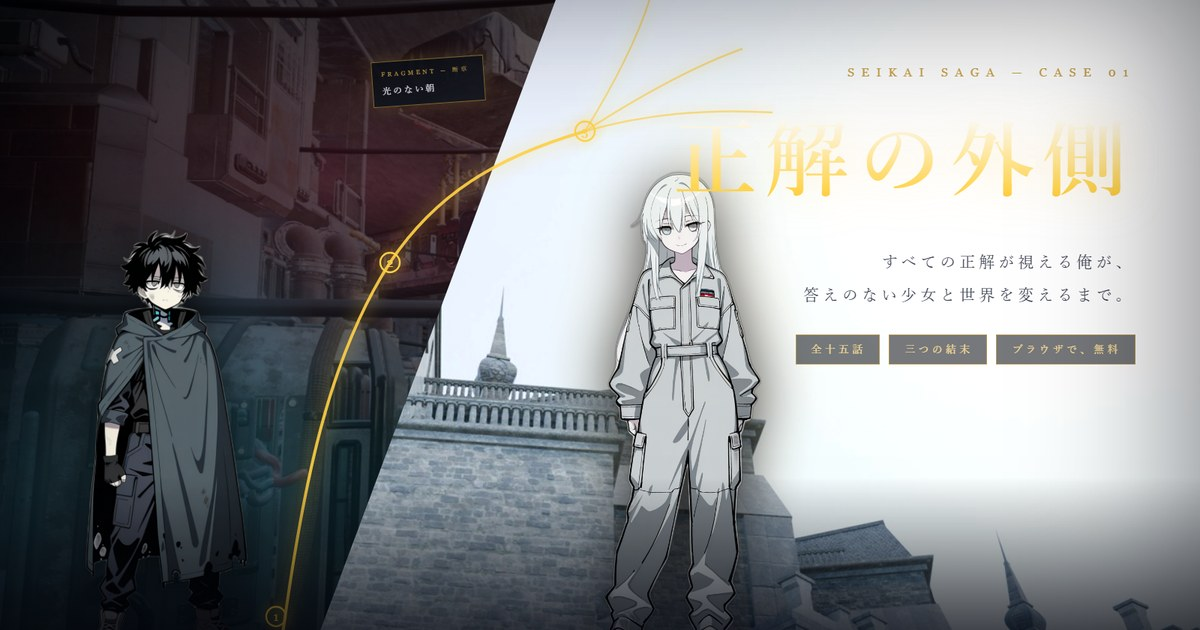
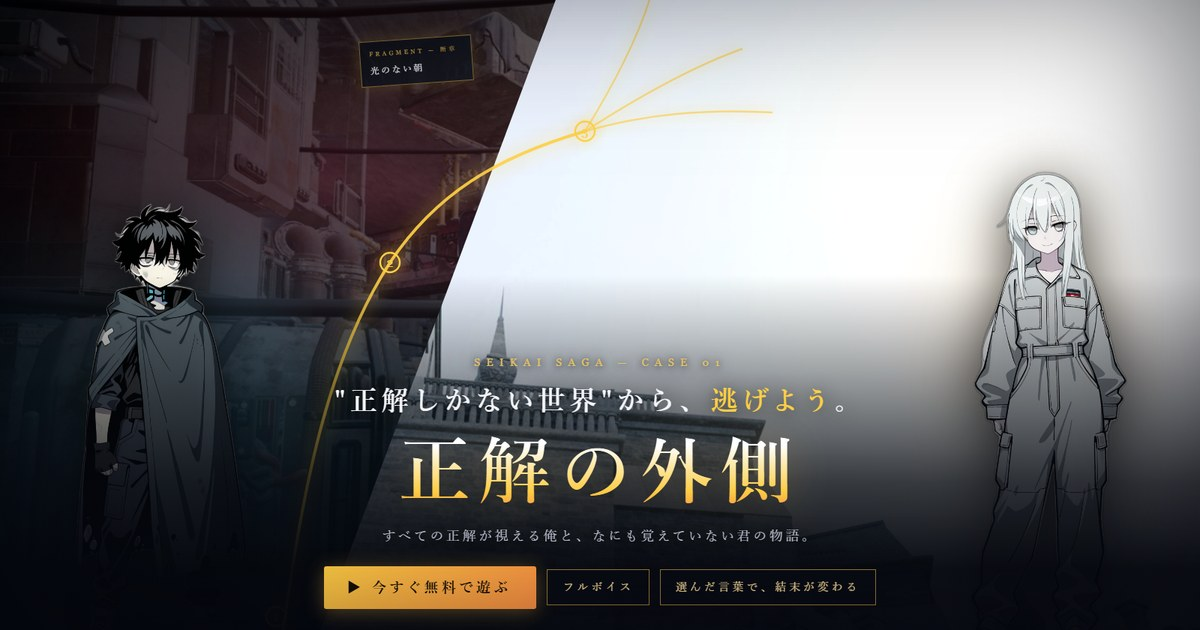
feat(seikai): click-worthy poster-style key visual — hook copy, full-voice badge, high contrast
- 映画ポスター型に刷新: 下部56%暗幕バンドで全テキスト高コントラスト化(コントラスト比問題の解消)
- 引き付けるコピー: フック「"正解しかない世界"から、逃げよう。」+「すべての正解が視える俺と、なにも覚えていない君の物語。」(仕様列挙の全15話/3結末は廃止)
- CTA: ゴールドの「▶ 今すぐ無料で遊ぶ」ボタン+「フルボイス」「選んだ言葉で、結末が変わる」チップ
- 左右対称構図(影のカイ/光のリーン)+3分岐の金道筋+断章カード

diff --git a/kv-render.html b/kv-render.html
@@ -25,26 +25,31 @@ html,body{width:1600px;height:900px;overflow:hidden;background:#000;
 svg{position:absolute;inset:0}
 /* キャラ */
 .ch{position:absolute;bottom:-2%;filter:drop-shadow(0 14px 40px rgba(0,0,0,.75))}
-#kai{left:13.5%;height:66%;transform:translateX(-50%)}
-#rin{left:56%;height:74%;transform:translateX(-50%)}
+#kai{left:13%;height:70%;transform:translateX(-50%)}
+#rin{left:86.5%;height:74%;transform:translateX(-50%)}
 .rimL{position:absolute;bottom:0;left:4%;width:22%;height:75%;background:radial-gradient(ellipse at 60% 55%,rgba(90,200,255,.16),transparent 60%)}
-.rimR{position:absolute;bottom:0;left:44%;width:26%;height:84%;background:radial-gradient(ellipse at 50% 50%,rgba(255,220,150,.22),transparent 62%)}
+.rimR{position:absolute;bottom:0;left:72%;width:28%;height:84%;background:radial-gradient(ellipse at 50% 50%,rgba(255,220,150,.24),transparent 62%)}
 /* 足元の影 */
-.floor{position:absolute;left:0;right:0;bottom:0;height:26%;background:linear-gradient(0deg,rgba(4,6,12,.72),transparent)}
+.floor{position:absolute;left:0;right:0;bottom:0;height:56%;background:linear-gradient(0deg,rgba(6,9,16,.96) 22%,rgba(6,9,16,.78) 45%,transparent)}
 /* タイポ */
-#type{position:absolute;right:5.4%;top:13%;text-align:right}
-#type .eye{font-family:Georgia,serif;font-size:16px;letter-spacing:.6em;color:#c9a24a;text-transform:uppercase}
-#type h1{margin-top:20px;font-size:112px;font-weight:600;letter-spacing:.1em;
+#type{position:absolute;left:50%;bottom:6.5%;transform:translateX(-50%);text-align:center;width:88%}
+#type .eye{font-family:Georgia,serif;font-size:14px;letter-spacing:.6em;color:#e8c56a;text-transform:uppercase;text-shadow:0 1px 10px rgba(0,0,0,.9),0 0 22px rgba(0,0,0,.7)}
+#type .hook{margin-top:16px;font-size:36px;letter-spacing:.16em;color:#f4f6fb;font-weight:600;
+  text-shadow:0 2px 24px rgba(0,0,0,.9)}
+#type .hook b{color:#ffd24a;font-weight:600}
+#type h1{margin-top:12px;font-size:96px;font-weight:600;letter-spacing:.12em;line-height:1.15;
   background:linear-gradient(180deg,#fff 16%,#ffd24a 72%,#ff9a4a 100%);
   -webkit-background-clip:text;background-clip:text;color:transparent;
-  filter:drop-shadow(0 4px 30px rgba(255,200,90,.28))}
-#type .sub{margin-top:22px;font-size:21px;letter-spacing:.24em;color:#3a4254;line-height:2.1;
-  text-shadow:0 1px 10px rgba(255,255,255,.65)}
-#type .chips{margin-top:30px;display:flex;gap:12px;justify-content:flex-end}
-#type .chip{border:1px solid rgba(201,162,74,.75);color:#ffe1a0;font-size:14px;letter-spacing:.3em;
-  padding:8px 18px 8px 20px;background:rgba(10,14,22,.55)}
+  filter:drop-shadow(0 4px 30px rgba(255,200,90,.32))}
+#type .sub{margin-top:12px;font-size:18px;letter-spacing:.2em;color:#c9cede;line-height:1.9;
+  text-shadow:0 2px 14px rgba(0,0,0,.9)}
+#type .chips{margin-top:22px;display:flex;gap:14px;justify-content:center;align-items:center}
+#type .cta{background:linear-gradient(135deg,#ffd24a,#ff9a4a);color:#1a1206;font-size:19px;font-weight:700;
+  letter-spacing:.22em;padding:13px 34px 13px 30px;border-radius:3px;box-shadow:0 4px 26px rgba(255,190,80,.4)}
+#type .chip{border:1px solid rgba(201,162,74,.8);color:#ffe1a0;font-size:15px;letter-spacing:.26em;
+  padding:11px 20px;background:rgba(10,14,22,.72)}
 /* 断章カードの気配(小) */
-#fragmini{position:absolute;left:31%;top:12%;width:150px;background:linear-gradient(160deg,rgba(10,14,22,.9),rgba(18,24,36,.85));
+#fragmini{position:absolute;left:30%;top:9%;width:150px;background:linear-gradient(160deg,rgba(10,14,22,.9),rgba(18,24,36,.85));
   border:1px solid rgba(201,162,74,.6);padding:10px 12px;box-shadow:0 0 22px rgba(201,162,74,.25);transform:rotate(-4deg)}
 #fragmini .fen{font-family:Georgia,serif;font-size:8px;letter-spacing:.44em;color:#c9a24a}
 #fragmini .fjp{font-size:12px;letter-spacing:.2em;color:#e6ebf4;margin-top:6px}
@@ -79,9 +84,10 @@ svg{position:absolute;inset:0}
   <div id="fragmini"><div class="fen">FRAGMENT — 断章</div><div class="fjp">光のない朝</div></div>
   <div id="type">
     <div class="eye">SEIKAI SAGA — CASE 01</div>
+    <div class="hook">"正解しかない世界"から、<b>逃げよう</b>。</div>
     <h1>正解の外側</h1>
-    <div class="sub">すべての正解が視える俺が、<br>答えのない少女と世界を変えるまで。</div>
-    <div class="chips"><span class="chip">全十五話</span><span class="chip">三つの結末</span><span class="chip">ブラウザで、無料</span></div>
+    <div class="sub">すべての正解が視える俺と、なにも覚えていない君の物語。</div>
+    <div class="chips"><span class="cta">▶ 今すぐ無料で遊ぶ</span><span class="chip">フルボイス</span><span class="chip">選んだ言葉で、結末が変わる</span></div>
   </div>
   <div class="grade"></div><div class="vig"></div>
 </div>
